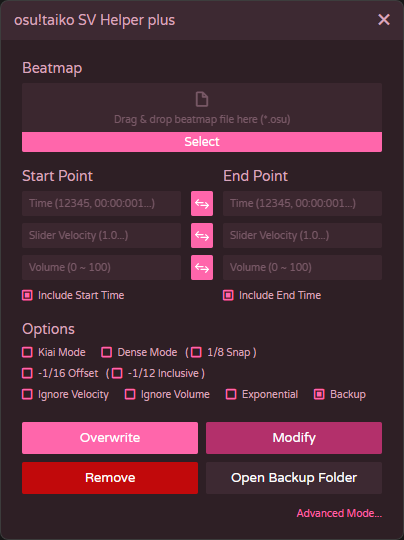
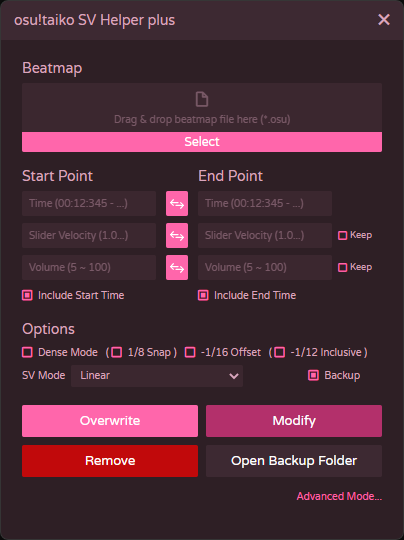
update readme

diff --git a/README.md b/README.md
@@ -11,11 +11,87 @@ This version is based on the original osu!taiko SV Helper and includes fixes for
 
 ### Bug fixes
 
-- Fixed an issue where using the `delete` or `modify` buttons could unintentionally modify uninherited timing points.
+- Fixed an issue where using the `delete` or `modify` buttons could unintentionally modify uninherited timing points. These actions now only affect inherited timing points, also known as green lines.
 
 ### Added features
 
 - Added `1/8 dense mode` in addition to the existing `1/16 dense mode`.
+- Added automatic SV point creation on measure lines when using normal overwrite mode. Measure line positions are calculated from uninherited timing points, using `beatLength * meter`, and the final timestamp is floored.
+- When using `-1/16 Offset`, measure line SV points are placed at `measure line - 1/16 snap`.
+- Overwrite now replaces existing inherited timing points within `+-1ms` of the target time.
+- Removed the Kiai option. Overwrite inherits Kiai/effects from the start point, and Modify preserves each timing point's existing effects.
+- Replaced the old Exponential checkbox with an `SV Mode` selector.
+- Added small `Keep` checkboxes for velocity and volume. When enabled, the original inherited value is kept instead of using the input value.
+- Volume input now accepts only values from `5` to `100`.
+
+## SV Mode
+
+SV Mode controls how Slider Velocity and Volume are interpolated between the start value and the end value.
+
+Let:
+
+- `t = (currentTime - startTime) / (endTime - startTime)`
+- `s = startValue`
+- `e = endValue`
+- `value(t)` is the interpolated value at progress `t`
+
+The domain is normally `0 <= t <= 1`.
+
+### Linear
+
+```
+value(t) = s + t * (e - s)
+```
+
+This is the default mode. The value changes by a constant difference over time.
+
+### Ratio
+
+```
+value(t) = s * (e / s) ^ t
+```
+
+The value changes by a constant ratio over time.
+
+### Cubic In / Accelerate Curve
+
+```
+value(t) = s + t^3 * (e - s)
+```
+
+The value changes slowly at the beginning and faster near the end.
+
+### Cubic Out / Decelerate Curve
+
+```
+value(t) = s + (1 - (1 - t)^3) * (e - s)
+```
+
+The value changes faster at the beginning and slowly near the end.
+
+### Sine In / Accelerate Curve
+
+```
+value(t) = s + (1 - cos(t * pi / 2)) * (e - s)
+```
+
+The value changes slowly at the beginning and faster near the end, with a smoother sine-shaped curve than Cubic In.
+
+### Sine Out / Decelerate Curve
+
+```
+value(t) = s + sin(t * pi / 2) * (e - s)
+```
+
+The value changes faster at the beginning and slowly near the end, with a smoother sine-shaped curve than Cubic Out.
+
+For Slider Velocity, the final inherited timing point beat length is calculated as:
+
+```
+beatLength = -100 / value(t)
+```
+
+For Volume, the interpolated value is rounded to the nearest integer.
 
 ## Requirement
 * Node.js 14.16.0 or later